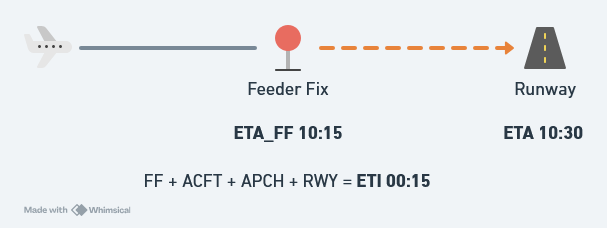
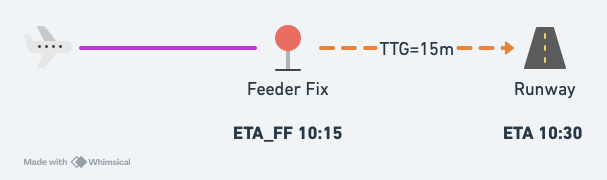
cleaning up user-guide

diff --git a/docs/sidebars.js b/docs/sidebars.js
@@ -34,9 +34,8 @@ const sidebars = {
           },
           items: [
             'user-guide/system-overview/01-concepts',
-            'user-guide/system-overview/02-flight-lifecycle',
-            'user-guide/system-overview/03-sequencing',
-            'user-guide/system-overview/04-online-mode',
+            'user-guide/system-overview/02-flight-processing',
+            'user-guide/system-overview/03-online-mode',
           ],
         },
         {

diff --git a/docs/docs/user-guide/system-overview/02-flight-processing.md b/docs/docs/user-guide/system-overview/02-flight-processing.md
@@ -1,0 +1,102 @@
+---
+sidebar_position: 2
+---
+
+# How Flights are Processed
+
+This page explains how vMaestro tracks and processes flights from creation through to landing.
+
+## Flight Creation
+
+When a flight plan is created in vatSys, the flight becomes visible to vMaestro. At this stage, the flight is not yet active and is not being processed.
+
+## Flight Activation
+
+When a flight plan is activated in vatSys, the flight becomes active in vMaestro. Enroute flights within 2 hours of their feeder fix are tracked automatically and added to the sequence.
+
+## Pending List
+
+Flights from departure airports appear in the pending list when their flight plan is activated. These flights must be manually inserted into the sequence.
+
+Pending flights can be inserted prior to departure, allowing any required delay to be absorbed on the ground rather than in the air.
+
+Flights not tracking via a feeder fix also appear in the pending list and must be manually inserted.
+
+## The Processing Cycle
+
+vMaestro processes all active flights every 30 seconds.
+Each cycle performs the following steps for each flight.
+
+![Flight Processing Cycle Flowchart](../../../static/img/process-flowchart.png)
+
+### 1. Estimate Calculation
+
+The `ETA_FF` is sourced from vatSys route estimates. The landing estimate (`ETA`) is then calculated by adding the time-to-go from the allocated trajectory (`TTG`).
+
+For flights not tracking via a feeder fix, an average trajectory is allocated. The `ETA` is sourced from the estimate of the last waypoint in the vatSys route, and the `ETA_FF` is derived by subtracting the average trajectory time.
+
+![Diagram of ETA_FF calculation](../../../static/img/eta_ff.png)
+
+:::info
+Once a flight passes the feeder fix, the `ATO` (Actual Time Over) is used instead of `ETA_FF`. Since the `ATO` is fixed, the `ETA` and remaining delay will not change after passing the feeder fix.
+:::
+
+### 2. Sequencing
+
+Flights are ordered by their `ETA` following a first-come, first-served approach.
+
+### 3. Scheduling
+
+During scheduling, vMaestro assigns each flight a runway and calculates its scheduled landing time (`STA`). The runway's acceptance rate enforces minimum separation, and conflicts are resolved by delaying flights as necessary.
+
+Runways are assigned based on the active runway mode. If the runway mode specifies preferred feeder fixes, flights via those fixes are assigned to the corresponding runway. Otherwise, vMaestro calculates the `STA` for each available runway and assigns the one resulting in the earliest landing time. Flights not tracking via a feeder fix are assigned to the first runway in the runway mode.
+
+The `STA` is assigned based on the flight's sequence position and is never earlier than the `ETA` unless manually adjusted. The `STA_FF` is then derived by subtracting the trajectory time.
+
+Flights with manual delay limits are prioritised. If their calculated delay exceeds the limit, they are moved forward by swapping with preceding flights until their total delay is within the allocated maximum.
+
+Slots reserve runway capacity by preventing flights from being scheduled during specific periods. See [Slots](../system-operation/04-slots.md) for how to manage slots.
+
+:::info
+Multiple flights tracking via the same feeder fix may share the same `STA_FF` if they have different trajectory times (e.g., different aircraft categories). Labels may overlap on feeder fix views but will separate on runway views.
+:::
+
+### 4. Delay Calculation
+
+The required delay is the difference between the scheduled landing time and the initial estimate. The remaining delay is also calculated, which decreases as the flight absorbs delay through speed reduction or vectoring.
+
+### 5. State Transition
+
+The flight's state is updated based on time to `ETA_FF` and `STA`. As flights progress through states, processing becomes increasingly restricted. See [Flight States](#flight-states) below.
+
+## Flight States
+
+vMaestro uses states to control how flights are processed. Flights progress through these states as they approach landing.
+
+![Diagram of Flight States](../../../static/img/states.png)
+
+### Unstable
+
+All new flights start in this state. On each update, the full processing cycle runs: estimates are recalculated, the flight is repositioned in the sequence, and scheduling assigns a runway and `STA`. The runway and approach type may change if an earlier `STA` is available on an alternative runway.
+
+### Stable
+
+Flights become Stable as they approach the `ETA_FF`. From this point, only estimates (`ETA_FF`, `ETA`) and remaining delay are recalculated on each update. Sequencing and scheduling no longer run automatically.
+
+Stable flights keep their position unless displaced by controller action on a preceding flight, or a new flight entering with an earlier `ETA`.
+
+:::warning
+There is no alert when required delays change. Controllers should regularly review delay figures to recognise changes.
+:::
+
+### SuperStable
+
+Flights become SuperStable at their original `ETA_FF`. Processing is the same as Stable, but the flight is fixed in position. All new flights are positioned after it. Displacement only occurs through controller action on this flight or a preceding flight.
+
+### Frozen
+
+Flights become Frozen as they approach the `STA`. Processing is the same as Stable, but the flight cannot be displaced at all, even by controller actions.
+
+### Landed
+
+Flights become Landed at the `STA`. Processing stops entirely. The last 5 landed flights remain visible in case of an overshoot, after which they are removed. Flights are also removed when deleted from vatSys.

diff --git a/docs/docs/user-guide/system-overview/01-concepts.md b/docs/docs/user-guide/system-overview/01-concepts.md
@@ -4,33 +4,56 @@ sidebar_position: 1
 
 # Concepts
 
-This page covers the terminology and abbreviations used throughout vMaestro.
+This page covers the core concepts and terminology used throughout vMaestro. Understanding these concepts is essential for working with the system.
 
-## Terminology
+## Airports
+
+### Managed Airport
+
+The managed airport is the airport vMaestro is sequencing arrivals for. All flights in the sequence are arriving at this airport.
+
+### Departure Airports
+
+Departure airports are airports within close proximity to the managed airport, typically within 30–45 minutes flight time. Flights originating from these airports appear in the [Pending List](./02-flight-processing.md#pending-list) when activated.
+
+## Feeder Fixes
+
+A feeder fix is a point along the TMA boundary where flights are transferred from Enroute to the TMA. Feeder fixes generally correspond to a particular STAR, though they may not be the STAR entry point.
+
+vMaestro uses the feeder fix to:
+
+- Determine which runway to assign based on runway mode preferences
+- Calculate the landing estimate using predefined trajectories
+- Position flights on feeder views
+
+:::info
+A flight may have an `ETA_FF` without tracking via a specific feeder fix. In this case, the time represents the expected transfer time to the TMA.
+:::
+
+## Abbreviations
 
 | Term | Meaning |
 | ---- | ------- |
-| Feeder Fix (FF) | A point on the TMA boundary where arriving aircraft enter terminal airspace. |
-| Managed Airport | The airport vMaestro is sequencing arrivals for. |
-| Departure Airport | An airport typically within 30-minute flight time of the managed airport. Flights from these airports must be manually inserted into the sequence. |
-| Close Airport | An airport within close proximity to the managed airport, typically within the TMA. |
-| Acceptance Rate | The minimum time separation between successive landings on a runway. |
-| Runway Mode | A predefined TMA configuration specifying which runways are active and their acceptance rates. |
+| `ETA_FF` | Estimated time at the feeder fix (from vatSys) |
+| `ETA` | Estimated landing time (calculated by vMaestro) |
+| `STA_FF` | Scheduled time at the feeder fix (calculated by vMaestro) |
+| `STA` | Scheduled landing time (calculated by vMaestro) |
+| `TTG` | Time-to-Go from feeder fix to runway threshold |
 
-## Time Abbreviations
+## Runway Modes
 
-| Abbreviation | Meaning |
-| ------------ | ------- |
-| `ETA` | Estimated Time of Arrival at the **runway** (landing time). |
-| `STA` | **Scheduled** Time of Arrival at the runway, calculated by vMaestro. |
-| `ETA_FF` | Estimated Time of Arrival at the **feeder fix**. |
-| `STA_FF` | **Scheduled** Time of Arrival at the feeder fix, calculated by vMaestro. |
-| `ATO` | Actual Time Over the feeder fix (recorded once the aircraft passes). |
-| `ETI` | Estimated Time Interval from feeder fix to runway (trajectory time). |
+A runway mode defines which runways are active for arrivals. Each runway mode specifies:
 
-## Delay Values
+- Which runways are in use
+- Acceptance rates for each runway
+- Feeder fix preferences for runway assignment
 
-vMaestro displays two delay values on flight labels:
+vMaestro uses the active runway mode to determine how flights are assigned to runways and scheduled.
+See [TMA Configuration](../system-operation/02-tma-configuration.md) for how to change runway modes during operation.
 
-- **Required Delay** - The total delay vMaestro has assigned to achieve the scheduled landing time. This value remains fixed once calculated.
-- **Remaining Delay** - The delay still to be absorbed. This decreases as the flight slows down or is vectored, eventually reaching zero when all delay has been absorbed.
+## Slots
+
+Slots reserve runway capacity by preventing flights from being scheduled during a specific time period.
+They are used for special operations, configuration changes, or other reasons requiring a gap in arrivals.
+
+See [Slots](../system-operation/04-slots.md) for how to manage slots during operation, and [How Flights are Processed - Slots](./02-flight-processing.md#slots) for how slots affect scheduling.

diff --git a/docs/docs/user-guide/index.md b/docs/docs/user-guide/index.md
@@ -8,12 +8,11 @@ This guide is intended for air traffic controllers using vMaestro to manage arri
 
 ## System Overview
 
-Learn how vMaestro works, including core concepts, flight states, and sequencing behaviour.
+Learn how vMaestro works, including core concepts, flight processing, and scheduling behaviour.
 
-- [Concepts](./system-overview/01-concepts.md) - Terminology and abbreviations
-- [Flight Lifecycle](./system-overview/02-flight-lifecycle.md) - How flights are tracked and processed
-- [Sequencing](./system-overview/03-sequencing.md) - Runway assignment and scheduling
-- [Online Mode](./system-overview/04-online-mode.md) - Multi-user operation and roles
+- [Concepts](./system-overview/01-concepts.md) - Terminology and definitions
+- [How Flights are Processed](./system-overview/02-flight-processing.md) - The processing cycle, flight states, and scheduling
+- [Online Mode](./system-overview/03-online-mode.md) - Multi-user operation and roles
 
 ## System Operation
 

diff --git a/docs/docs/user-guide/system-overview/index.md b/docs/docs/user-guide/system-overview/index.md
@@ -4,9 +4,8 @@ sidebar_position: 1
 
 # System Overview
 
-This section explains the core concepts and functionality of vMaestro, including how flights are tracked, sequenced, and managed.
+This section explains how vMaestro works, from core concepts through to flight processing.
 
-- [Concepts](./01-concepts.md) - Terminology and abbreviations used throughout vMaestro
-- [Flight Lifecycle](./02-flight-lifecycle.md) - How flights are tracked, processed, and transition through states
-- [Sequencing](./03-sequencing.md) - How runway assignment and scheduling work
-- [Online Mode](./04-online-mode.md) - Multi-user operation, roles, and permissions
+- [Concepts](./01-concepts.md) - Airports, feeder fixes, abbreviations, runway modes, and slots
+- [How Flights are Processed](./02-flight-processing.md) - The processing cycle, flight states, runway assignment, and scheduling
+- [Online Mode](./03-online-mode.md) - Multi-user operation, roles, and permissions

diff --git a/docs/docs/user-guide/system-operation/04-slots.md b/docs/docs/user-guide/system-operation/04-slots.md
@@ -4,9 +4,7 @@ sidebar_position: 4
 
 # Slots
 
-Slots reserve runway capacity by preventing flights from being scheduled during a specific time period. They are used for special operations, configuration changes, or other reasons requiring a gap in arrivals.
-
-For how slots affect sequencing, see [Sequencing - Slots](../system-overview/03-sequencing.md#slots).
+This page covers how to create and manage slots. For what slots are and how they affect scheduling, see [Concepts - Slots](../system-overview/01-concepts.md#slots).
 
 ## Creating a Slot
 

diff --git a/docs/docs/user-guide/system-overview/03-online-mode.md b/docs/docs/user-guide/system-overview/03-online-mode.md
@@ -1,5 +1,5 @@
 ---
-sidebar_position: 4
+sidebar_position: 3
 ---
 
 # Online Mode
